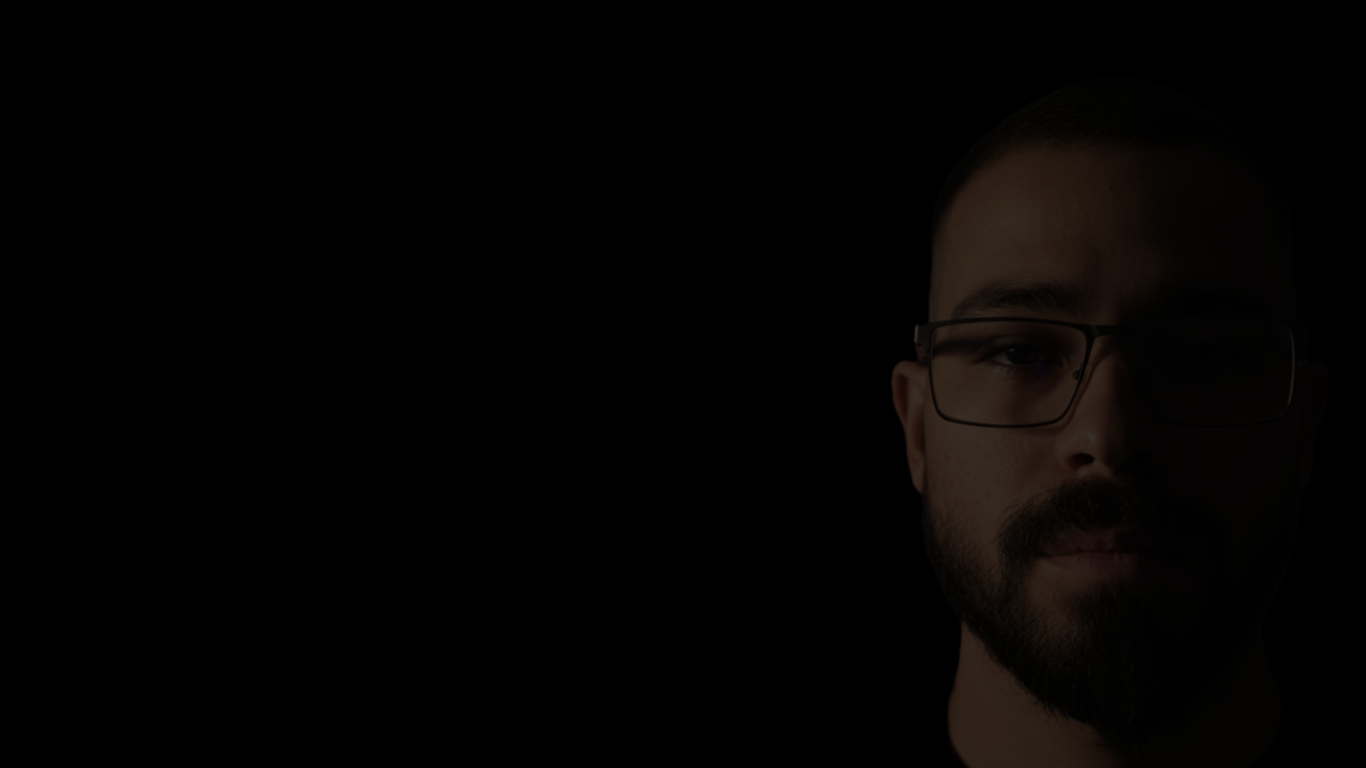
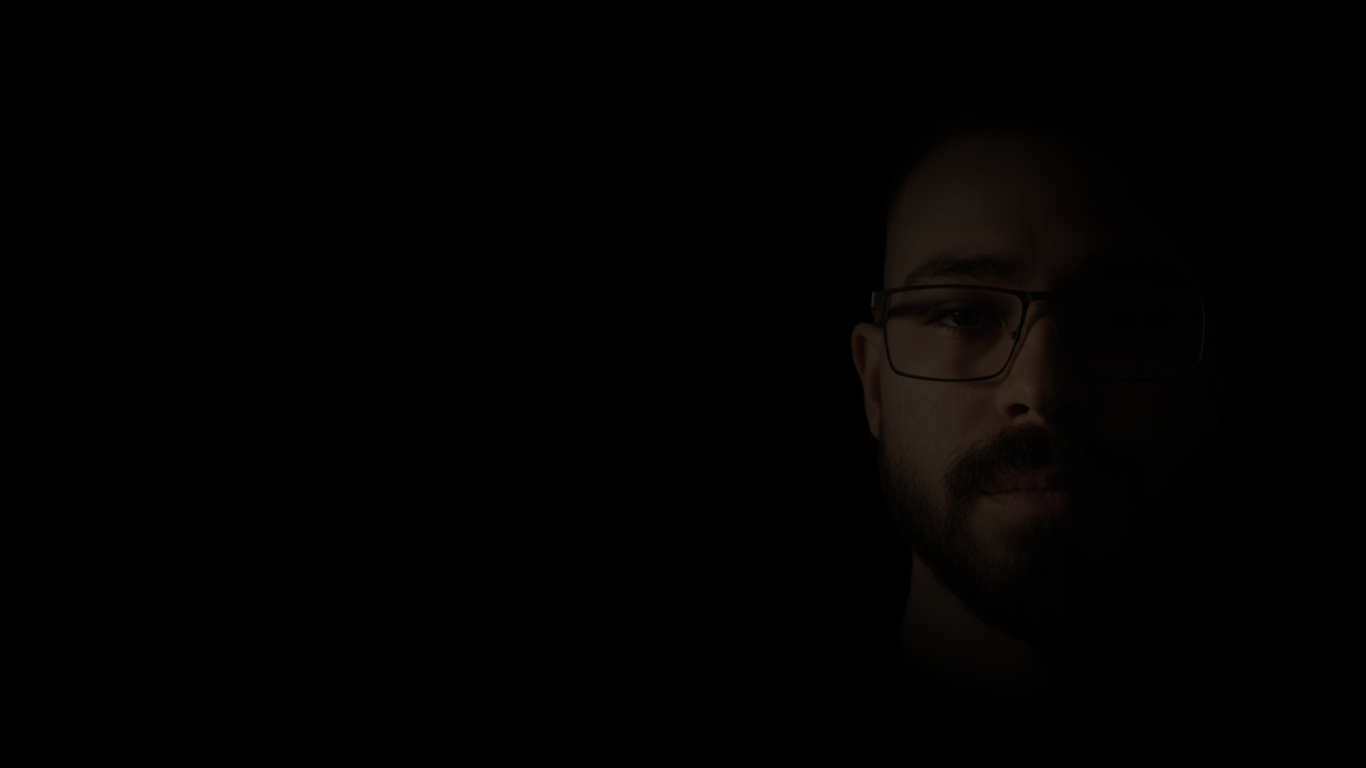
newbg

Changed region(s): [[0.6149, 0.1875, 0.8302, 1.0]]

diff --git a/styles.css b/styles.css
@@ -61,7 +61,7 @@ img, video, iframe {
 }
 
 .home-content {
-    max-width: 50vw;
+    max-width: 58vw;
     position: relative;
     z-index: 1;
     font-family: "Josefin Sans", sans-serif;
@@ -76,7 +76,7 @@ img, video, iframe {
 
 .home-content h3 {
     font-size: 1.3rem;
-    color:  rgba(14, 113, 138, 1);
+    color: #0e718a;
 }
 
 .home-content p {
@@ -127,15 +127,15 @@ img, video, iframe {
 }
 
 .profiles a:hover::before {
-    width: 90%;
+    width: 80%;
 }
 
 .img-hover {
     position: absolute;
     top: 0;
     right: 0;
-    width: 35%;
-    height: 100%;
+    width: 39%;
+    height: 100vh;
     background: transparent;
     transition: 2s;
 }